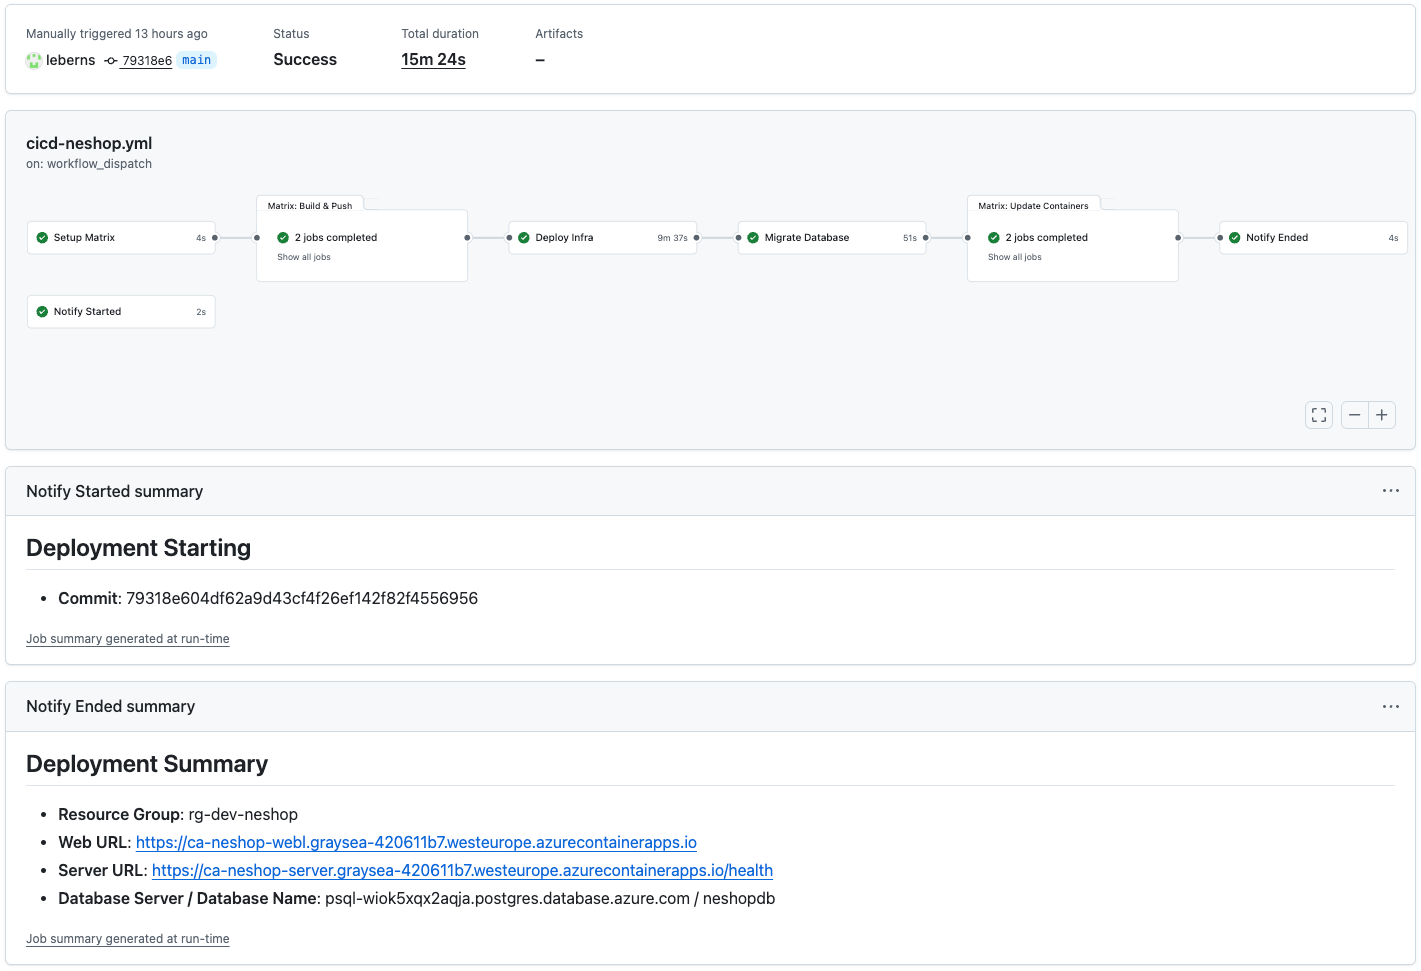
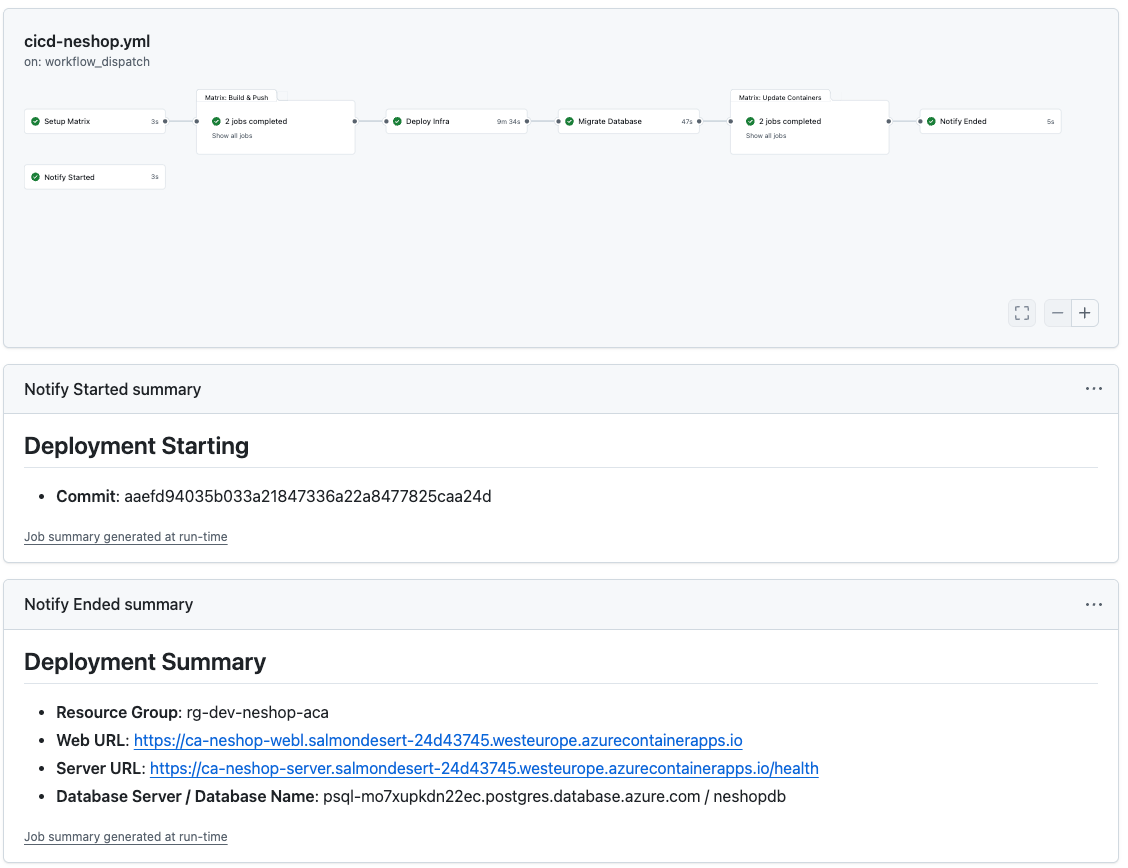
update docs

diff --git a/README.md b/README.md
@@ -1,10 +1,8 @@
 # Open Dev
 
-## Publications
+## Projects
 
-### 2026
-
-- [NeShop - Azure container apps demo application](https://github.com/leberns/neshop-aca)
+- [NeShop ACA - Azure Container Apps eShop demo application](https://github.com/leberns/neshop-aca)
 
   - **On Budget**: no expensive databases or resources are provisioned on Azure, good for students or individuals
   - **Deployment fully automated** with GitHub Actions: frontend, backend, database
@@ -23,6 +21,12 @@
 
   GitHub Actions workflow deploying to Azure, an execution example:
   ![GitHub Actions workflow screen-shot](./docs/media/github-workflow-execution.png)
+
+## Publications
+
+### 2026
+
+- [NeShop ACA - demo application](https://github.com/leberns/neshop-aca)
 
 ### 2021
 
